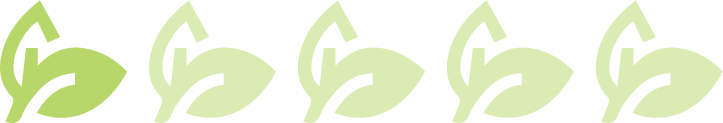
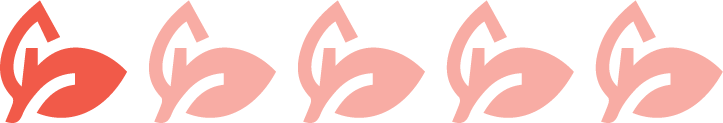
JavaScript added Fuel and Food

diff --git a/scripts/main.js b/scripts/main.js
@@ -1,6 +1,12 @@
-var fuelData = 30;
+//-------- Fuel ----------------
+var fuelData = 0;
 document.getElementById("fuelText").innerHTML = fuelData + '%';
+console.log(fuelData);
 
+function changeFuelPictureEmpty(){
+	var changePicture = document.getElementById("fuelVisual");
+	changePicture.src = "images/fuel_empty.png";
+}
 function changeFuelPicture20(){
 	var changePicture = document.getElementById("fuelVisual");
 	changePicture.src = "images/fuel_10to20.png";
@@ -10,16 +16,119 @@ function changeFuelPicture45(){
 	changePicture.src = "images/fuel_21to45.png";
 }
 
-if (fuelData<=20 ) {
+function changeFuelPicture60(){
+	var changePicture = document.getElementById("fuelVisual");
+	changePicture.src = "images/fuel_46to60.png";
+}
+
+function changeFuelPicture69(){
+	var changePicture = document.getElementById("fuelVisual");
+	changePicture.src = "images/fuel_61-69.png";
+}
+
+function changeFuelPicture99(){
+	var changePicture = document.getElementById("fuelVisual");
+	changePicture.src = "images/fuel_71to99.png";
+}
+function changeFuelPictureFull(){
+	var changePicture = document.getElementById("fuelVisual");
+	changePicture.src = "images/fuel_full.png";
+}
+
+if (fuelData == 0) {
+	changeFuelPictureEmpty();
+	document.getElementById("fuelPerformance").innerHTML = 'Empty';
+	document.querySelector(".textFuelWarning").style.color = '#F15A48';
+	document.querySelector(".fuelWarning").style.color = '#F15A48';
+} else if ( fuelData <=20) {
 	changeFuelPicture20();
 	document.getElementById("fuelPerformance").innerHTML = 'Very Low';
-	document.querySelector(".fuelWarning").style.color = 'red';
+	document.querySelector(".textFuelWarning").style.color = '#F15A48';
+	document.querySelector(".fuelWarning").style.color = '#F15A48';
 } else if ( fuelData <=45) {
 	changeFuelPicture45();
 	document.getElementById("fuelPerformance").innerHTML = 'Middle';
-	document.querySelector(".fuelWarning").style.color = 'black';
-}
+	document.querySelector(".textFuelWarning").style.color = 'black';
+	document.querySelector(".fuelWarning").style.color = 'black'; 
+} else if ( fuelData <=69) {
+	changeFuelPicture69();
+	document.getElementById("fuelPerformance").innerHTML = 'Middle';
+	document.querySelector(".textFuelWarning").style.color = 'black';
+	document.querySelector(".fuelWarning").style.color = 'black'; 
+} else if ( fuelData <=99) {
+	changeFuelPicture99();
+	document.getElementById("fuelPerformance").innerHTML = 'Very High';
+	document.querySelector(".textFuelWarning").style.color = 'black';
+	document.querySelector(".fuelWarning").style.color = '#76C8A6'; 
+} else if ( fuelData == 100) {
+	changeFuelPictureFull();
+	document.getElementById("fuelPerformance").innerHTML = 'Full';
+	document.querySelector(".textFuelWarning").style.color = 'black';
+	document.querySelector(".fuelWarning").style.color = '#76C8A6'; }
 
-// if (fuelData>=11 && fuelData<=30){
-// 	document.ElementById("fuelPerformance").innerHTML = 'Low';
-// }
+//-------- Food ----------------
+var foodData = 0;
+document.getElementById("foodText").innerHTML = foodData + '%';
+console.log(foodData);
+
+function changeFoodPictureEmpty(){
+	var changePicture = document.getElementById("foodVisual");
+	changePicture.src = "images/food_empty.png";
+	}
+function changeFoodPicture20(){
+	var changePicture = document.getElementById("foodVisual");
+	changePicture.src = "images/food_1to20.png";
+	}
+function changeFoodPicture40(){
+	var changePicture = document.getElementById("foodVisual");
+	changePicture.src = "images/food_21to40.png";
+	}
+function changeFoodPicture60(){
+	var changePicture = document.getElementById("foodVisual");
+	changePicture.src = "images/food_41to60.png";
+	}
+function changeFoodPicture80(){
+	var changePicture = document.getElementById("foodVisual");
+	changePicture.src = "images/food_61to80.png";
+	}
+function changeFoodPicture100(){
+	var changePicture = document.getElementById("foodVisual");
+	changePicture.src = "images/food_morethan81.png";
+	}
+
+
+if (foodData == 0) {
+	changeFoodPictureEmpty();
+	document.getElementById("foodPerformance").innerHTML = 'Empty';
+	document.querySelector(".textFoodWarning").style.color = '#F15A48';
+	document.querySelector(".foodWarning").style.color = '#F15A48';
+} else if ( foodData <=20) {
+	changeFoodPicture20();
+	document.getElementById("foodPerformance").innerHTML = 'Very Low';
+	document.querySelector(".textFoodWarning").style.color = '#F15A48';
+	document.querySelector(".foodWarning").style.color = '#F15A48';
+} else if ( foodData <=40) {
+	changeFoodPicture40();
+	document.getElementById("foodPerformance").innerHTML = 'Low';
+	document.querySelector(".textFoodWarning").style.color = 'black';
+	document.querySelector(".foodWarning").style.color = 'black'; 
+} else if ( foodData <=60) {
+	changeFoodPicture60();
+	document.getElementById("foodPerformance").innerHTML = 'Middle';
+	document.querySelector(".textFoodWarning").style.color = 'black';
+	document.querySelector(".foodWarning").style.color = 'black'; 
+} else if ( foodData <=80) {
+	changeFoodPicture80();
+	document.getElementById("foodPerformance").innerHTML = 'High';
+	document.querySelector(".textFoodWarning").style.color = 'black';
+	document.querySelector(".foodWarning").style.color = '#76C8A6'; 
+} else if ( foodData <= 99) {
+	changeFoodPicture100();
+	document.getElementById("foodPerformance").innerHTML = 'Very High';
+	document.querySelector(".textFoodWarning").style.color = 'black';
+	document.querySelector(".foodWarning").style.color = '#76C8A6'; 
+} else if ( foodData == 100) {
+	changeFoodPicture100();
+	document.getElementById("foodPerformance").innerHTML = 'Full';
+	document.querySelector(".textFoodWarning").style.color = 'black';
+	document.querySelector(".foodWarning").style.color = '#76C8A6'; }

diff --git a/index.html b/index.html
@@ -25,18 +25,18 @@
 					<td><h2>Water</h2></td>
 				</tr>
 				<tr>
-					<th><img id="fuelVisual" src="images/fuel_61-69.png" height="90px" width="150px"></th>
-					<th><img src="images/food_morethan81.png" width="200px"></th>
+					<th><img id="fuelVisual" src="images/fuel_61-69.png" height="60px" width="120px"></th>
+					<th><img id="foodVisual" src="images/food_morethan81.png" width="200px"></th>
 					<th><img src="images/water_21to40.png" width="200px"></th>
 				</tr>
 				<tr>
-					<th id="fuelText">62%</th>
-					<th>85%</th>
+					<th id="fuelText" class="textFuelWarning">62%</th>
+					<th id="foodText" class="textFoodWarning">85%</th>
 					<th>32%</th>
 				</tr>
 				<tr>
 					<th id="fuelPerformance" class="fuelWarning">Middle</th>
-					<th>High</th>
+					<th id="foodPerformance" class="foodWarning">High</th>
 					<th>Low</th>
 				</tr>
 

diff --git a/styles/mystyle.css b/styles/mystyle.css
@@ -19,11 +19,12 @@ h1, h2 {
 h1 {
 	font-weight: 500px;
 	font-size: 70px;
-	margin:10px;
-
+	margin:50px;
 	text-align: center;
 }
-h1.p {
+p{
+	margin:0px;
+	text-align: center;
 
 }
 
@@ -56,7 +57,7 @@ table {
 }
 
 /*Fuel*/
-
+/*
 .fuelStable {
 	color: black;
-}
+}*/
